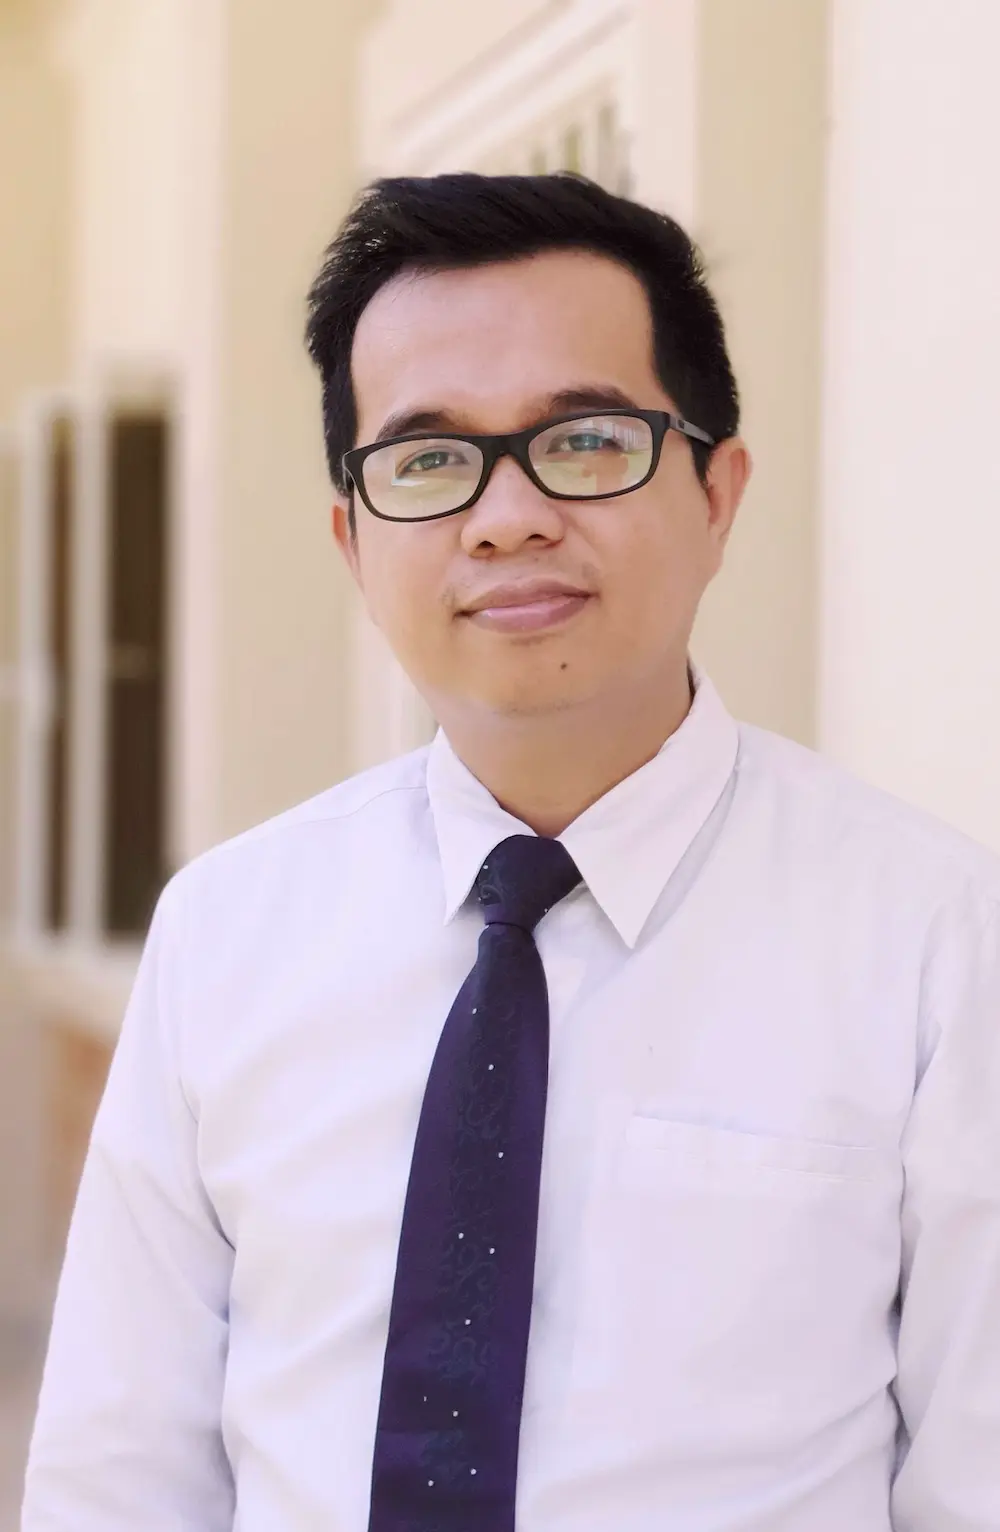
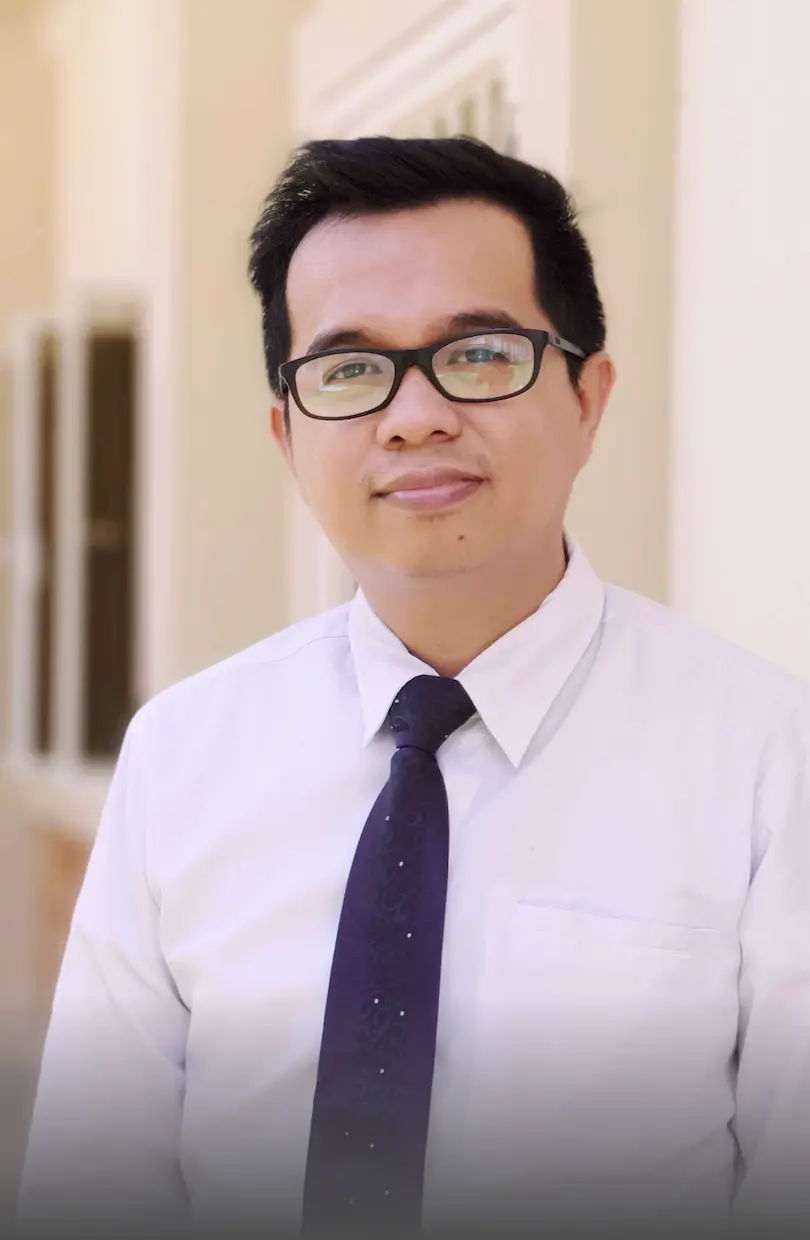
Removed mask-image because it was not supported. Replaced image with gradient.

diff --git a/styles/base.css b/styles/base.css
@@ -70,12 +70,6 @@ main {
     width: 100%;
     height: auto;
     display: block;
-    -webkit-mask-image: linear-gradient(to bottom, rgba(0,0,0,1) 80%, rgba(0,0,0,0) 100%);
-    -webkit-mask-size: 100% 100%;
-    -webkit-mask-repeat: no-repeat;
-    mask-image: linear-gradient(to bottom, rgba(0,0,0,1) 80%, rgba(0,0,0,0) 100%);
-    mask-size: 100% 100%;
-    mask-repeat: no-repeat;
 }
 
 .second-section {
